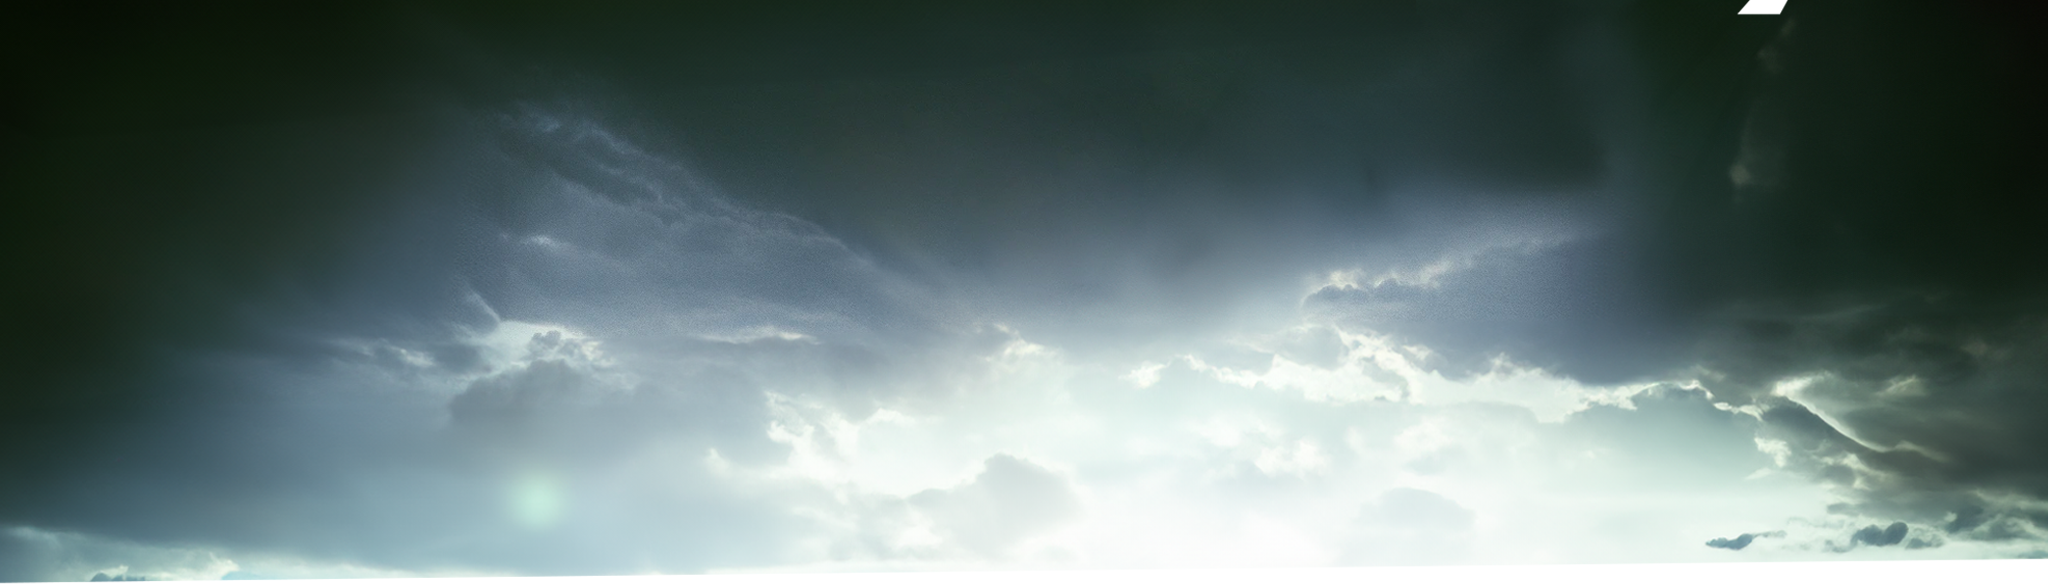
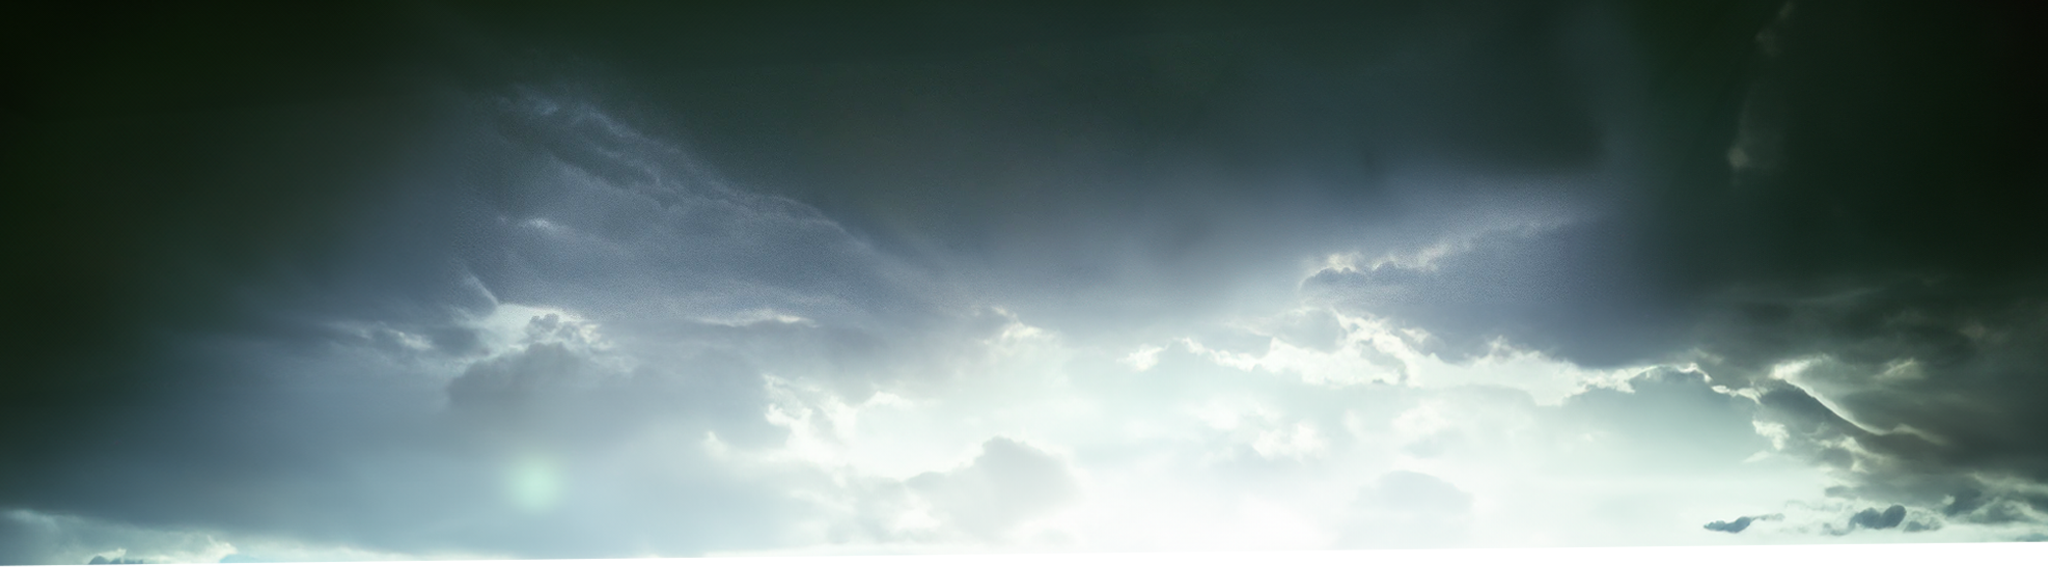
roughin of CSS.  Still more work responsive work to be done.

diff --git a/index.html b/index.html
@@ -1,36 +1,35 @@
 <!DOCTYPE html>
 <html lang="en">
-<head>
-    <meta charset="UTF-8">
-    <meta name="viewport" content="width=device-width, initial-scale=1.0">
-    <title>Namalsk - Forged Territories</title>
-    <link rel="stylesheet" href="styles/styles.css">
-    <link rel="icon" sizes="16x16" href="images/favicon-16x16.png">
-    <link rel="icon" sizes="32x32" href="images/favicon-32x32.png">
-    <link rel="icon" sizes="48x48" href="images/favicon-48x48.png">
-    <link rel="icon" sizes="64x64" href="images/favicon-64x64.png">
-    <link rel="icon" sizes="96x96" href="images/favicon-96x96.png">
-    <link rel="icon" sizes="128x128" href="images/favicon-128x128.png">
-    <link rel="icon" sizes="152x152" href="images/favicon-152x152.png">
-    <link rel="icon" sizes="192x192" href="images/favicon-192x192.png">
-    <link rel="icon" sizes="256x256" href="images/favicon-256x256.png">
-</head>
-<body>
-    <div id="parallaxContainer">
-        <img src="" alt="">
-        <img data-depth="0.05" data-max-range="50" class="01-hero-rock" src="images/01-hero-rock.png" alt=""/>
-        <img data-depth="0.10" data-max-range="50" class="02-logo" src="images/02-logo.png" alt=""/>
-        <img data-depth="0.15" data-max-range="50" class="03-mountain-tree-foreground-L" src="images/03-mountain-tree-foreground-L.png" alt=""/>
-        <img data-depth="0.20" data-max-range="50" class="04-mountain-foreground-R" src="images/04-mountain-foreground-R.png" alt=""/>
-        <img data-depth="0.25" data-max-range="50" class="05-smoke"src="images/05-smoke.png" alt=""/>
-        <img data-depth="0.30" data-max-range="50" class="06-factory"src="images/06-factory.png" alt=""/>
-        <img data-depth="0.35" data-max-range="50" class="07-coal-mountain" src="images/07-coal-mountain.png" alt=""/>
-        <img data-depth="0.40" data-max-range="50" class="08-anomaly" src="images/08-anomaly.png" alt=""/>
-        <img data-depth="0.45" data-max-range="50" class="09-mountain-valley" src="images/09-mountain-valley.png" alt=""/>
-        <img data-depth="0.50" data-max-range="50" class="10-mountainscape-far" src="images/10-mountainscape-far.png" alt=""/>
-        <img data-depth="0.55" data-max-range="50" class="11-skyscape" src="images/11-skyscape.png" alt=""/>
-        <img data-depth="0.60" data-max-range="50" class="12-Canvas" src="images/12-Canvas.png" alt=""/>
-    </div>
-    <script src="https://cdnjs.cloudflare.com/ajax/libs/parallax/3.1.0/parallax.min.js"></script>
-</body>
+    <head>
+        <meta charset="UTF-8">
+        <meta name="viewport" content="width=device-width, initial-scale=1.0">
+        <title>Namalsk - Forged Territories</title>
+        <link rel="stylesheet" href="styles/styles.css">
+        <link rel="icon" sizes="16x16" href="images/favicon-16x16.png">
+        <link rel="icon" sizes="32x32" href="images/favicon-32x32.png">
+        <link rel="icon" sizes="48x48" href="images/favicon-48x48.png">
+        <link rel="icon" sizes="64x64" href="images/favicon-64x64.png">
+        <link rel="icon" sizes="96x96" href="images/favicon-96x96.png">
+        <link rel="icon" sizes="128x128" href="images/favicon-128x128.png">
+        <link rel="icon" sizes="152x152" href="images/favicon-152x152.png">
+        <link rel="icon" sizes="192x192" href="images/favicon-192x192.png">
+        <link rel="icon" sizes="256x256" href="images/favicon-256x256.png">
+    </head>
+    <body>
+        <div id="parallaxContainer">
+            <img data-depth="0.10" data-max-range="50" id="skyscape_11" src="images/11-skyscape.png" alt=""/>
+            <img data-depth="0.15" data-max-range="60" id="mountainscape-far_10" src="images/10-mountainscape-far.png" alt=""/>
+            <img data-depth="0.20" data-max-range="80" id="mountain-valley_09" src="images/09-mountain-valley.png" alt=""/>
+            <img data-depth="0.16" data-max-range="70" id="anomaly_08" src="images/08-anomaly.png" alt=""/>
+            <img data-depth="0.21" data-max-range="80" id="coal-mountain_07" src="images/07-coal-mountain.png" alt=""/>
+            <img data-depth="0.21" data-max-range="80" id="factory_06" src="images/06-factory.png" alt=""/>
+            <img data-depth="0.21" data-max-range="80" id="smoke_05" src="images/05-smoke.png" alt=""/>
+            <img data-depth="0.30" data-max-range="100" id="mountain-tree-foreground-L_03" src="images/03-mountain-tree-foreground-L.png" alt=""/>
+            <img data-depth="0.30" data-max-range="100" id="mountain-foreground-R_04" src="images/04-mountain-foreground-R.png" alt=""/>
+            <img data-depth="0.32" data-max-range="110" id="hero-rock_01" src="images/01-hero-rock.png" alt=""/>
+            <img data-depth="0.32" data-max-range="30" id="logo_02" src="images/02-logo.png" alt=""/>
+            <img data-depth="0.65" data-max-range="0" data-is-canvas="true" id="canvas_12" src="images/12-Canvas.png" alt=""/>
+        </div>
+        <script src="scripts/parallax.js"></script>
+    </body>
 </html>

diff --git a/ts/parallax.ts b/ts/parallax.ts
@@ -1,26 +1,54 @@
-interface ParallaxLayer {
-    depth: number;        // Layer's depth, affecting movement intensity
-    maxRange: number;     // Maximum pixel movement range for the layer
-}
-
 class Parallax {
     private layers: NodeListOf<HTMLElement>;
+    private canvas: HTMLElement | null;
+    private container: HTMLElement;
 
     constructor(private containerId: string) {
-        const container = document.getElementById(this.containerId) as HTMLElement;
-        // Using querySelectorAll to ensure all direct children are selected
-        this.layers = container.querySelectorAll<HTMLElement>(':scope > *');
+        this.container = document.getElementById(this.containerId) as HTMLElement;
+        if (!this.container) {
+            throw new Error('Container not found');
+        }
+
+        this.layers = this.container.querySelectorAll<HTMLElement>(':scope > *');
+        this.canvas = this.container.querySelector<HTMLElement>('[data-is-canvas="true"]');
+
+        // Automatically assign z-index based on depth
+        this.assignZIndex();
+
+        // Update container height based on canvas height
+        this.updateContainerHeight();
+
         this.attachEvents();
+    }
+
+    private assignZIndex(): void {
+        const layersArray = Array.from(this.layers);
+        layersArray.sort((a, b) => {
+            const depthA = parseFloat(a.dataset['depth'] || "0");
+            const depthB = parseFloat(b.dataset['depth'] || "0");
+            return depthB - depthA; // Sort in descending order of depth
+        });
+
+        layersArray.forEach((layer, index) => {
+            layer.style.zIndex = (layersArray.length - index).toString();
+        });
+    }
+
+    private updateContainerHeight(): void {
+        if (this.canvas) {
+            this.container.style.height = getComputedStyle(this.canvas).height;
+        }
     }
 
     private attachEvents(): void {
         window.addEventListener('mousemove', (event) => this.handleMouseMove(event));
+        window.addEventListener('resize', () => this.updateContainerHeight());  // Adjust container height on window resize
     }
 
     private handleMouseMove(event: MouseEvent): void {
         const { clientX, clientY, view } = event;
         if (!view) {
-          return;
+            return;
         }
 
         const { innerWidth, innerHeight } = view;
@@ -28,7 +56,6 @@ class Parallax {
         const yPercent = (clientY / innerHeight - 0.5) * 2;
 
         this.layers.forEach((layer) => {
-            // Accessing dataset values with type assertion for safety
             const depth = parseFloat(layer.dataset['depth'] || "0");
             const maxRange = parseFloat(layer.dataset['maxRange'] || "50");
             const xOffset = xPercent * maxRange * depth;

diff --git a/styles/styles.css b/styles/styles.css
@@ -2,33 +2,90 @@
 body, html {
     height: 100%;
     margin: 0;
+    background-color: black;
     overflow: hidden;
 }
 
 #parallaxContainer {
     position: relative;
-    width: 100%;
-    height: 100%;
-    overflow: hidden;
+    width: 100%;  /* Ensures the container is as wide as the viewport */
+    height: auto; /* Adjusts the height based on the content */
 }
 
 #parallaxContainer > * {
-    position: absolute;
-    top: 0;
-    left: 0;
-    width: 100%;
-    height: 100%;
-    background-size: cover;
-    background-position: center;
     will-change: transform; /* Optimizes transformations */
+    position: absolute; /* Positions all images absolutely within the container */
 }
 
-/* Subtle fade at edges, enhancing focus on the center */
-#parallaxContainer::before {
-    content: "";
-    position: absolute;
-    top: 0; left: 0;
-    width: 100%; height: 100%;
-    background: radial-gradient(circle, transparent, rgba(0, 0, 0, 0.5) 70%);
-    pointer-events: none; /* Allows mouse events to pass through */
+#canvas_12 {
+    top: 0;  /* Aligns images to the top of the container */
+    left: 0; /* Aligns images to the left of the container */
+    width: 100%; /* Full width to stretch images */
+    height: auto; /* Height adjusts automatically */
+    opacity: 0;
+}
+
+#skyscape_11 {
+    top: 0;  /* Aligns images to the top of the container */
+    left: 0; /* Aligns images to the left of the container */
+    width: 100%; /* Full width to stretch images */
+    height: auto; /* Height adjusts automatically */
+}
+
+#mountain-valley_09 {
+    top: 0;  /* Aligns images to the top of the container */
+    left: 0; /* Aligns images to the left of the container */
+    width: 100%; /* Full width to stretch images */
+    height: auto; /* Height adjusts automatically */
+}
+
+#mountainscape-far_10 {
+    top: 18.6em;
+    left: 28.3em;
+    width: 51.9em;
+    height: 11.9em;
+}
+
+#anomaly_08 {
+    top: 24em;
+    left: 34.2em;
+    width: 1.5em;
+    height: 1.5em;
+}
+
+#coal-mountain_07 {
+    top: 24.6em;
+    left: 40.4em;
+    width: 33.2em;
+}
+
+#factory_06 {
+    top: 18.3em;
+    left: 49.4em;
+    width: 23.4em;
+}
+
+#smoke_05 {
+    top: 0;
+    left: 54em;
+    width: 32.9em;
+}
+
+#mountain-tree-foreground-L_03 {
+    height: auto;
+}
+
+#mountain-foreground-R_04 {
+    height: auto;
+    right: 0;
+}
+
+#hero-rock_01 {
+    left: 34em;
+    top: 28.6em;
+}
+
+#logo_02 {
+    right: 7em;
+    top: 28.6em;
 }

diff --git a/scripts/parallax.js b/scripts/parallax.js
@@ -2,15 +2,41 @@
 class Parallax {
     containerId;
     layers;
+    canvas;
+    container;
     constructor(containerId) {
         this.containerId = containerId;
-        const container = document.getElementById(this.containerId);
-        // Using querySelectorAll to ensure all direct children are selected
-        this.layers = container.querySelectorAll(':scope > *');
+        this.container = document.getElementById(this.containerId);
+        if (!this.container) {
+            throw new Error('Container not found');
+        }
+        this.layers = this.container.querySelectorAll(':scope > *');
+        this.canvas = this.container.querySelector('[data-is-canvas="true"]');
+        // Automatically assign z-index based on depth
+        this.assignZIndex();
+        // Update container height based on canvas height
+        this.updateContainerHeight();
         this.attachEvents();
+    }
+    assignZIndex() {
+        const layersArray = Array.from(this.layers);
+        layersArray.sort((a, b) => {
+            const depthA = parseFloat(a.dataset['depth'] || "0");
+            const depthB = parseFloat(b.dataset['depth'] || "0");
+            return depthB - depthA; // Sort in descending order of depth
+        });
+        layersArray.forEach((layer, index) => {
+            layer.style.zIndex = (layersArray.length - index).toString();
+        });
+    }
+    updateContainerHeight() {
+        if (this.canvas) {
+            this.container.style.height = getComputedStyle(this.canvas).height;
+        }
     }
     attachEvents() {
         window.addEventListener('mousemove', (event) => this.handleMouseMove(event));
+        window.addEventListener('resize', () => this.updateContainerHeight()); // Adjust container height on window resize
     }
     handleMouseMove(event) {
         const { clientX, clientY, view } = event;
@@ -21,7 +47,6 @@ class Parallax {
         const xPercent = (clientX / innerWidth - 0.5) * 2;
         const yPercent = (clientY / innerHeight - 0.5) * 2;
         this.layers.forEach((layer) => {
-            // Accessing dataset values with type assertion for safety
             const depth = parseFloat(layer.dataset['depth'] || "0");
             const maxRange = parseFloat(layer.dataset['maxRange'] || "50");
             const xOffset = xPercent * maxRange * depth;
